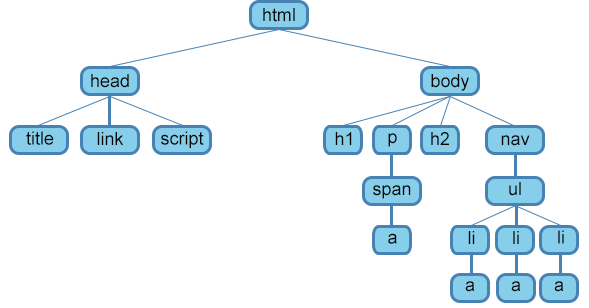
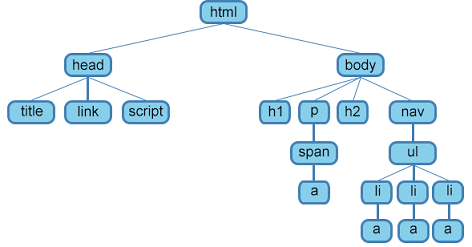
cw1_update

diff --git a/cw1_original.html b/cw1_original.html
@@ -15,9 +15,9 @@
 <li class="font-bold">Основы HTML</li>
 <li class="font-bold">Структура HTML документа</li>
 <ul>
-<li><a href="#html"> Элемент &lt;html&gt;</a></li>
-<li><a href="#head">Элемент &lt;head&gt;</a></li>
-<li><a href="#title">Элемент &lt;title&gt;</a></li>
+<li><a href="#html"> Элемент &lt;<span class="font-comment">html</span>&gt;</a></li>
+<li><a href="#head">Элемент &lt;<span class="font-comment">head</span>&gt;</a></li>
+<li><a href="#title">Элемент &lt;<span class="text-comment">title</span>&gt;</a></li>
 <li><a href="#meta">Элемент &lt;meta&gt;</a></li>
 <li><a href="#style">Элемент &lt;style&gt;</a></li>
 <li><a href="#link">Элемент &lt;link&gt;</a></li>
@@ -70,8 +70,8 @@ value="Кнопка"&gt;</span> создаст кнопку с текстом <s
 Браузеры обрабатывают HTML-документы последовательно, с самого начала, при этомо брабатывая CSS и соотнося
  таблицы стилей с элементами страницы</p>
  
-<p>HTML-документ состоит из двух разделов — заголовка — между тегами <span class="font-higlited">&lt;head&gt;</span>...<span class="font-higlited">&lt;/head&gt;</span> и 
-содержательной части — между тегами <span class="font-higlited">&lt;body&gt;</span>...<span class="font-higlited">&lt;/body&gt;</span>.</p>
+<p>HTML-документ состоит из двух разделов — заголовка — между тегами <span class="font-higlited">&lt;<span class="font-comment">head</span>&gt;</span>...<span class="font-higlited">&lt;<span class="text-comment">/head</span>&gt;</span> и 
+содержательной части — между тегами <span class="font-higlited">&lt;<span class="text-comment">body</span>&gt;</span>...<span class="font-higlited">&lt;<span class="text-comment">/body</span>&gt;</span>.</p>
 <!-- конец основ HTML -->
 
 <p class="font-oglav">Структура HTML-документа</p>
@@ -82,6 +82,22 @@ Type Definition, или DTD)</span>. DTD представляет собой XML
 
 <p><span class="font-bold">DOCTYPE</span> отвечает за корректное отображение веб-страницы браузером. DOCTYPE определяет 
 не только версию HTML (например, html), но и соответствующий DTD-файл в Интернете</p>
+<div class="code-box">
+&lt;!DOCTYPE html&gt; <span class="text-comment">&lt;!-- Объявление формата документа --&gt;</span><br>
+&lt;<span class="text-tag">html</span>&gt;<br>
+&lt;<span class="text-tag">head</span>&gt; <span class="text-comment">&lt;!-- Техническая информация о документе --&gt;</span><br>
+&lt;<span class="text-tag">meta</span> <span class="text-arg">charset</span>="UTF-8"&gt; <span class="text-comment">&lt;!-- Определяем кодировку символов документа --&gt;</span><br>
+&lt;<span class="text-tag">title</span>&gt;...&lt;<span class="text-comment">/title</span>&gt; <span class="text-comment">&lt;!-- Задаем заголовок документа --&gt;</span><br>
+&lt;<span class="text-tag">link</span> <span class="text-arg">rel</span>=<span class="text-name">"stylesheet"</span> <span class="text-arg">type</span>=<span class="text-name">"text/css"</span> <span class="text-arg">href</span>=<span class="text-name">"style.css"</span>&gt; <span class="text-comment">&lt;!-- Подключаем внешнюю таблицу стилей --&gt;</span><br>
+&lt;<span class="text-tag">script</span> <span class="text-arg">src</span>=<span class="text-name">"script.js"</span>&gt;<span class="text-tag">/script</span>&gt; <span class="text-comment">&lt;!-- Подключаем сценарии --&gt;</span><br>
+&lt;<span class="text-tag">/head</span>&gt;<br>
+&lt;<span class="text-tag">body</span>&gt; <span class="text-comment">&lt;!-- Основная часть документа --&gt;</span><br>
+&lt;<span class="text-tag">/body</span>&gt;
+&lt;<span class="text-tag">/html</span>&gt;
+</div>
+<p>Элементы, находящиеся в нутри тега <span class="font-higlited">&lt;html&gt;</span>, образуют дерево документа, так называемую <span class="font-bold">объектную модель
+ документа, DOM (document  object  model)</span>. При этом элемент <span class="font-higlited">&lt;html&gt;</span> является корневым элементом.</p>
+ <img class="img_center" src="./cw1_files/DOM.png">
 </div> 
 </div>
 </body>

diff --git a/cw1_files/cw1_style_original.css b/cw1_files/cw1_style_original.css
@@ -25,13 +25,14 @@
 	padding-left: 15px;
    }
    .code-box{
-	background-color: orange;
+	background-color: #ffe4b5;
 	border: 1px solid black;
-	padding: 15px;
-	padding-left: 1px;
+	padding: 10px;
+	padding-left: 7px;
+	font-size: 13px;
    }
    .font-oglav{
-	font-size: 18px;
+	font-size: 16px;
 	font-family: Times, Times New Roman, serif;	  
 	text-indent: 2em;
    }
@@ -42,8 +43,11 @@
     float:left;
     margin: 15px 15px 15px 0;
    }
+   .img_center {
+    text-align: center;
+   }
    p{
-	font-size: 14px;
+	font-size: 13px;
 	word-spacing: 2px;
 	text-indent: 2em;
    }
@@ -51,3 +55,20 @@
 	border: 1px solid black;
 	background: #ffffe0;
    }
+   a{
+	color: black;
+	text-decoration: none;
+   }
+   .text-comment{
+	color: #008021;
+   }
+   .text-tag{
+	color: #0053e8;
+   }
+   .text-arg{
+	color: red;
+   }
+   .text-name{
+	color: #633b91;
+   }
+   
